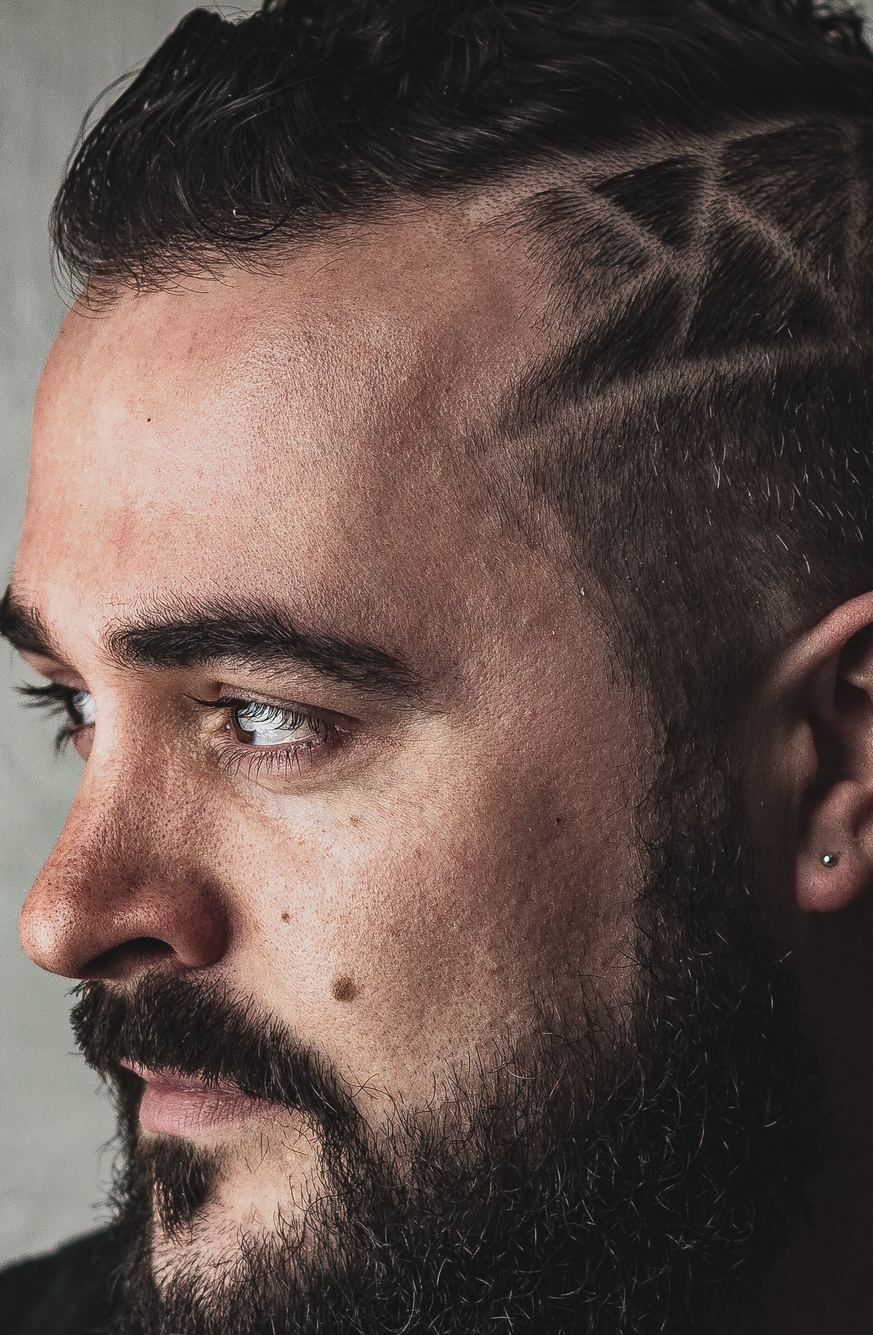
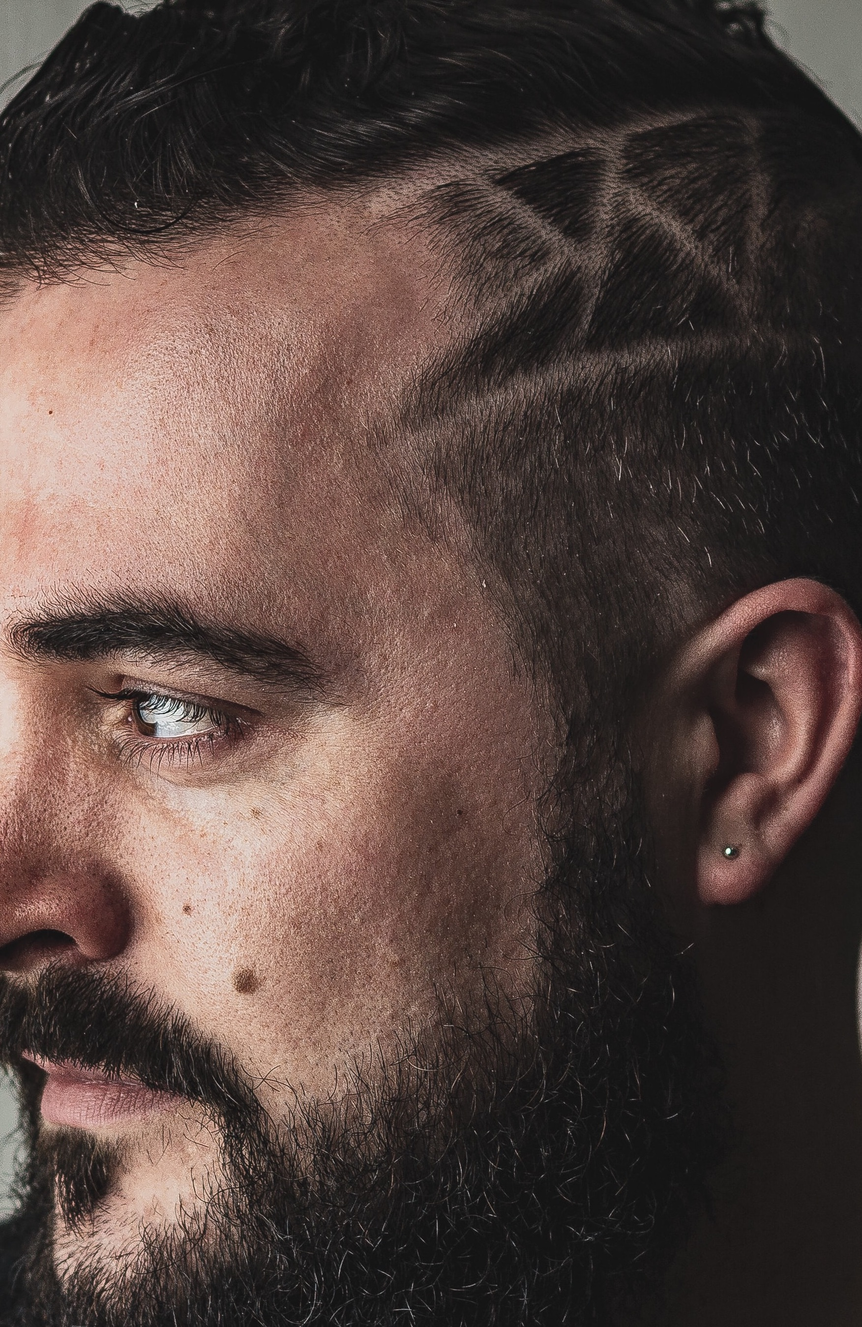
Continued work on testimonial responsiveness

diff --git a/testimonials.html b/testimonials.html
@@ -41,13 +41,13 @@
 	</script>
 
 	<section>
-
         <h2 class="testimonial-header-padding header-text text-dark">Testimonials</h2>
         <div class="carousel-container">
             <div id="carouselExampleCaptions" class="carousel slide" data-ride="carousel">
                 <div class="carousel-inner">
                     <div class="carousel-item active">
-                        <img src="assets/images/testimonials/shaved-long.jpg" class="carousel-image d-block w-100" alt="Smiling man with shaved head">
+                        <img src="assets/images/testimonials/shaved-long.jpg" class="hidden-mobile carousel-image w-100" alt="Smiling man with shaved head">
+                        <img src="assets/images/testimonials/shaved-wide.jpg" class="hidden-desktop carousel-image w-100" alt="Smiling man with shaved head">
                         <div class="carousel-caption">
                             <h5><strong>Athos</strong></h5>
                             <p class="testimonial-text">
@@ -57,7 +57,8 @@
                         </div>
                     </div>
                     <div class="carousel-item">
-                        <img src="assets/images/testimonials/coloured-mohawk-long.jpg" class="carousel-image d-block w-100" alt="...">
+                        <img src="assets/images/testimonials/coloured-mohawk-long.jpg" class="hidden-mobile carousel-image w-100" alt="Man with colourful mohawk">
+                        <img src="assets/images/testimonials/coloured-mohawk-wide.jpg" class="hidden-desktop carousel-image w-100" alt="Man with colourful mohawk">
                         <div class="carousel-caption">
                             <h5>Aramis</h5>
                             <p class="testimonial-text">
@@ -67,16 +68,18 @@
                         </div>
                     </div>
                     <div class="carousel-item">
-                        <img src="assets/images/testimonials/side-art-long.jpg" class="carousel-image d-block w-100" alt="...">
+                        <img src="assets/images/testimonials/side-art-long.jpg" class="hidden-mobile carousel-image w-100" alt="Man with pattern shaved into head">
+                        <img src="assets/images/testimonials/side-art-wide.jpg" class="hidden-desktop carousel-image w-100" alt="Man with pattern shaved into head">
                         <div class="carousel-caption">
                             <h5>Porthos</h5>
                             <p class="testimonial-text">
-                                The barber notes feature ensures nobody is blindsided by my triple crown.'
+                                'It's not easy looking this good! The barber notes feature ensures nobody is blindsided by my triple crown.'
                             </p>
                         </div>
                     </div>
                     <div class="carousel-item">
-                        <img src="assets/images/testimonials/trendy-long.jpg" class="carousel-image d-block w-100" alt="...">
+                        <img src="assets/images/testimonials/trendy-long.jpg" class="hidden-mobile carousel-image w-100" alt="Man in front of caravan">
+                        <img src="assets/images/testimonials/trendy-wide.jpg" class="hidden-desktop carousel-image w-100" alt="Man in front of caravan">
                         <div class="carousel-caption">
                             <h5>D'artagnan</h5>
                             <p class="testimonial-text">

diff --git a/assets/css/styles.css b/assets/css/styles.css
@@ -100,7 +100,7 @@
 /* -------------- Testimonials Styling -------------- */
 .testimonial-header-padding {
     padding-top: 2.5vh;
-    margin-bottom: 2.5vh;
+    margin-bottom: 2.5vh
 }
 
 .carousel-container {
@@ -108,8 +108,27 @@
     margin: auto;
 }
 
+.carousel-caption {
+    background-color: #CDCDCD; 
+    background-position: center center; 
+    font-size: 16px;
+    width: 100%;
+    position: relative;
+    bottom: 0px;
+    left: 0% !important;
+    right: 0% !important;
+}
+
 .carousel-image {
-    max-height: calc(90vh - 108px);
+    max-height: 90vh;
+}
+
+.hidden-desktop {
+    display: block;
+}
+
+.hidden-mobile {
+    display: block;
 }
 
 .testimonial-text {
@@ -234,3 +253,31 @@ button[type="submit"] {
         width: 21rem;
     }
 }
+
+@media only screen and (max-width: 1024px){
+    .hidden-desktop {
+        display: none;
+    }
+
+}
+
+@media only screen and (min-width: 1025px){
+    .hidden-mobile {
+        display: none;
+    }
+
+}
+
+@media only screen and (min-width: 500px){
+    .carousel-image {
+        max-height: 80vh;
+    }
+}
+
+@media only screen and (max-aspect-ratio: 5/3){
+    .testimonial-header-padding {
+    padding-top: 5vh;
+    margin-bottom: 5vh
+    }
+}
+
